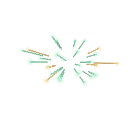
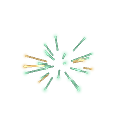
Restore fleet actions and keep phone navigation clear of HUD panels

Changed region(s): [[0.1562, 0.25, 0.9375, 0.7188], [0.625, 0.5938, 0.6875, 0.6562]]

diff --git a/frontend/components/space/SystemObjectIndex.tsx b/frontend/components/space/SystemObjectIndex.tsx
@@ -41,13 +41,15 @@ function ObjectThumbnail({ object, className }: { object: IndexedObject; classNa
 }
 
 /** Shared object browser. Opening details never issues a command. */
-export function SystemObjectIndex({ objects, selected, open, onOpen, onSelect, onFocus, offscreen, onOffscreen, canPlot = false, onPlot, systemName = 'System', detailContent, inspectorBody, compact = false, detailContentFor, tutorialTarget, plotHint, loading = false, failed = false, onRetry, disabled = false, selectedFleetId, onSelectFleet, onFocusFleet, fleetsLoading = false, fleetsFailed = false, onRetryFleets }: {
+export function SystemObjectIndex({ objects, selected, open, onOpen, onSelect, onFocus, offscreen, onOffscreen, canPlot = false, onPlot, systemName = 'System', detailContent, inspectorBody, compact = false, servicesWithoutDetails = false, detailContentFor, tutorialTarget, plotHint, loading = false, failed = false, onRetry, disabled = false, selectedFleetId, onSelectFleet, onFocusFleet, fleetsLoading = false, fleetsFailed = false, onRetryFleets }: {
   selectedFleetId?: string | null
   onSelectFleet?: (fleetId: string) => void
   onFocusFleet?: (fleetId: string) => void
   fleetsLoading?: boolean
   fleetsFailed?: boolean
   onRetryFleets?: () => void
+  /** Independently read station services remain usable when body telemetry fails. */
+  servicesWithoutDetails?: boolean
   compact?: boolean
   inspectorBody?: ReactNode
   detailContent?: ReactNode
@@ -101,7 +103,7 @@ export function SystemObjectIndex({ objects, selected, open, onOpen, onSelect, o
   return <div className={`${styles.indexShell} ${compact ? styles.compact : ''}`}>
     <Button plain ref={toggleRef} data-testid="system-index-toggle" aria-expanded={open} aria-controls="system-index" onClick={() => onOpen(!open)}>⌕ Objects · {available.length} <span>{open ? '−' : '+'}</span></Button>
     {/* Keep embedded command state mounted while its drawer is closed. */}
-    {(open || detailContent || inspectorBody) && <div style={!open ? { display: 'none' } : undefined} className={styles.indexPanels} data-details={!!detailObject} onKeyDown={event => {
+    {(open || detailContent || inspectorBody) && <div style={!open ? { display: 'none' } : undefined} className={styles.indexPanels} data-details={!!detailObject || servicesWithoutDetails} onKeyDown={event => {
       if (event.key !== 'Escape') return
       event.stopPropagation()
       if (details) closeDetails()
@@ -127,8 +129,9 @@ export function SystemObjectIndex({ objects, selected, open, onOpen, onSelect, o
         {!loading && !failed && !fleetsLoading && !fleetsFailed && matches.length === 0 && <p role="status">{available.length ? 'No known objects match. Try a name or type.' : 'No objects have been disclosed in this system.'}</p>}
         <small className={styles.muted}>Select an object to open or close its details.</small>
       </aside>
-      {(detailObject || detailContent || inspectorBody) && <aside style={!detailObject && !inspectorBody ? { display: 'none' } : inspectorBody ? { padding: 0, border: 0, background: 'transparent', overflow: 'visible' } : undefined} id="object-details" className={styles.objectDetails} aria-label={detailObject ? `Details for ${detailObject.label ?? detailObject.name}` : undefined}>
+      {(detailObject || detailContent || inspectorBody) && <aside style={!detailObject && !inspectorBody && !servicesWithoutDetails ? { display: 'none' } : inspectorBody ? { padding: 0, border: 0, background: 'transparent', overflow: 'visible' } : undefined} id="object-details" className={styles.objectDetails} aria-label={detailObject ? `Details for ${detailObject.label ?? detailObject.name}` : servicesWithoutDetails ? 'Docked station services' : undefined}>
         {inspectorBody}
+        {servicesWithoutDetails && !detailObject && <header className={styles.detailsHeader}><div><p>Docked station services</p><p className={styles.muted}>System objects are unavailable. Your station services are still connected.</p><Button plain onClick={onRetry}>Retry system objects</Button></div></header>}
         <div hidden={!!inspectorBody} style={{ display: inspectorBody ? 'none' : 'contents' }}>
         {detailObject && <header className={styles.detailsHeader}><p className={styles.eyebrow}>SELECTED {fleetFacts ? 'FLEET' : detailObject.group === 'Stations' ? 'STATION' : detailObject.group === 'Worlds' ? 'WORLD' : 'OBJECT'}</p><Button autoFocus plain className={styles.detailsClose} data-testid="details-back" aria-label="Close details and return to objects" title="Back to objects" onClick={closeDetails}>←</Button></header>}
         <div className={styles.detailsBody}>{detailObject && <><div className={styles.inspectorTitle}><>{!fleetFacts && !selectedPlanet && detailObject.kind !== 'station' && detailObject.kind !== 'star' && <ObjectThumbnail object={detailObject} className={styles.portrait} />}</><div><h3>{detailObject.label ?? detailObject.name}</h3>{detailObject.catalogueRef && <p>{detailObject.catalogueRef}</p>}<p className={styles.muted}>{detailObject.kind}</p></div></div>
@@ -137,7 +140,7 @@ export function SystemObjectIndex({ objects, selected, open, onOpen, onSelect, o
         {open && !fleetFacts && detailObject.kind === 'star' && <SpacecraftPreview key={`star:${detailObject.name}:${detailObject.starClass ?? ''}`} kind="star" objectId={detailObject.name} starClass={detailObject.starClass} label={detailObject.label ?? detailObject.name} accentColor={0xffffff} />}
         {open && selectedPlanet && <SpacecraftPreview key={`${selectedPlanet}:${detailObject.name}`} kind={selectedPlanet} objectId={detailObject.name} label={detailObject.label ?? detailObject.name} accentColor={0xffffff} />}
         {fleetFacts ? <dl className={styles.objectFacts}><dt>Activity</dt><dd>{fleetFacts.activity}</dd><dt>System</dt><dd>{fleetFacts.systemLabel}</dd>{fleetFacts.attachedTo && <><dt>Attached host</dt><dd>{fleetFacts.attachedTo}</dd></>}<dt>Ships</dt><dd>{fleetFacts.shipCount ?? 'Unavailable'}</dd></dl> : <dl className={styles.objectFacts}><dt>Known from</dt><dd>{detailObject.knownFrom ?? 'Astronomical observation'}</dd><dt>Resources</dt><dd>{detailObject.resources ?? 'Not surveyed — inspect or scan this host.'}</dd><dt>Fleets here</dt><dd>{detailObject.fleets?.length ? detailObject.fleets.join(', ') : 'No known fleets'}</dd>{detailObject.group === 'Stations' && <><dt>Services</dt><dd>Sell cargo · Purchase fuel while docked</dd></>}</dl>}</>}
-          <div className={styles.detailServices} style={fleetFacts || detailObject?.name !== detailContentFor ? { display: 'none' } : undefined}>{detailContent}</div>
+          <div className={styles.detailServices} style={fleetFacts || !servicesWithoutDetails && detailObject?.name !== detailContentFor ? { display: 'none' } : undefined}>{detailContent}</div>
         </div>
         {detailObject && <div className={styles.indexActions}>
           <Button plain data-testid="index-focus" disabled={disabled} onClick={() => { if (fleetFacts) onFocusFleet?.(fleetFacts.id); else onFocus() }}>Focus {detailObject.label ?? detailObject.name} ⌖</Button>

diff --git a/frontend/components/space/SystemSpaceView.tsx b/frontend/components/space/SystemSpaceView.tsx
@@ -54,7 +54,7 @@ import { useCommandGuide } from '@/hooks/use-command-guide'
 import { SystemObjectIndex } from './SystemObjectIndex'
 import { RecoveryTransmission } from './RecoveryTransmission'
 import commandStyles from './command-view.module.css'
-import { useMyFleets, useOrder, useStop, useJump } from '@/hooks/use-fleets'
+import { useMyFleets, useOrder, useStop, useJump, useCutDrive } from '@/hooks/use-fleets'
 import { useSubmitGuard } from '@/hooks/use-submit-guard'
 import { BURN_FUEL_ALLOWANCE } from '@/lib/space-quote'
 import { burnErrorCopy, commandErrorReason, isQuotedCapExceeded } from '@/lib/rejection-copy'
@@ -293,9 +293,11 @@ export function SystemSpaceView({ systemId }: SystemSpaceViewProps) {
   const travelOrder = useOrder()
   const travelStop = useStop()
   const travelJump = useJump()
+  const travelCutDrive = useCutDrive()
   const jumpGuard = useSubmitGuard()
   const travelGuard = useSubmitGuard()
   const stopGuard = useSubmitGuard()
+  const cutDriveGuard = useSubmitGuard()
   const [travelMode, setTravelMode] = useState<'review' | 'status' | null>(null)
   const [travelNotice, setTravelNotice] = useState<string | null>(null)
   const [travelError, setTravelError] = useState<string | null>(null)
@@ -959,6 +961,18 @@ export function SystemSpaceView({ systemId }: SystemSpaceViewProps) {
       onSettled: () => { stopGuard.release(); setTravelPending(false) },
     })
   }
+  const cutTravelDrive = () => {
+    if (!statusFleet || statusFleet.state.Mode !== 0 || statusFleet.jump || statusFleet.systemId !== systemId || mineRunning || fleets.isError || travelPending || !cutDriveGuard.claim()) return
+    setTravelError(null); setTravelPending(true)
+    travelCutDrive.mutate(statusFleet.id, {
+      onSuccess: fleet => {
+        setTravelReceipt({ fleet, destination: 'Coasting', readCount: qc.getQueryState(queryKeys.fleets.mine())?.dataUpdateCount })
+        setTravelNotice('Drive cut. The fleet is coasting.')
+      },
+      onError: error => setTravelError(burnErrorCopy(commandErrorReason(error))),
+      onSettled: () => { cutDriveGuard.release(); setTravelPending(false) },
+    })
+  }
   const jumpTravel = () => {
     if (!statusFleet?.laneId || statusFleet.jump || statusFleet.systemId !== systemId || mineRunning || fleets.isError || travelPending || !jumpGuard.claim()) return
     setTravelError(null); setTravelPending(true)
@@ -977,7 +991,10 @@ export function SystemSpaceView({ systemId }: SystemSpaceViewProps) {
     fleets={allFleets} systemId={systemId} destination={travelMode === 'status' ? statusDestination : destinationLabel}
     quote={currentQuote} worldTime={worldTime} scale={servedScale} blocker={travelBlocker} notice={travelNotice} error={fleets.isError ? 'Fleet telemetry unavailable.' : travelError}
     pending={travelPending} warning={travelReceipt?.fleet.strandingWarning}
-    additionalActions={statusFleet?.laneId && !statusFleet.jump && statusFleet.systemId === systemId ? <Button outline data-testid="travel-jump" disabled={travelPending || mineRunning || fleets.isError} onClick={jumpTravel}>Jump through gate</Button> : undefined}
+    additionalActions={<>
+      {statusFleet?.state.Mode === 0 && statusFleet.state.Burn && statusFleet.state.Burn.ArriveMs > worldTime && !statusFleet.jump && statusFleet.systemId === systemId && <Button outline data-testid="travel-cut-drive" disabled={travelPending || mineRunning || fleets.isError} onClick={cutTravelDrive}>Cut drive</Button>}
+      {statusFleet?.laneId && !statusFleet.jump && statusFleet.systemId === systemId && <Button outline data-testid="travel-jump" disabled={travelPending || mineRunning || fleets.isError} onClick={jumpTravel}>Jump through gate</Button>}
+    </>}
     onFleet={id => { if (!travelGuard.held) { setActingFleetId(id); setTravelError(null) } }} onStart={startTravel} onStop={stopTravel}
     onBack={() => { if (!travelGuard.held) { setTravelMode(null); openObjectIndex(true) } }}
     onClose={() => { if (!travelGuard.held) setTravelMode(null) }} onRetry={burnPreview.retry} /> : null
@@ -1223,6 +1240,7 @@ export function SystemSpaceView({ systemId }: SystemSpaceViewProps) {
       <div className={commandStyles.objectBrowser} data-testid="live-object-browser" data-attention={discovering && !discoveryStarted && !objectIndexOpen && !interiorFailed} style={{ position: 'relative', inset: 'auto', width: '100%', height: '100%', ...(guiding && guide?.phase === 'wake' ? { display: 'none' } : {}) }}>
         <SystemObjectIndex
           compact
+          servicesWithoutDetails={interiorFailed && !!stationActionsHost}
           key={systemId}
           systemName={systemNames[systemId] ?? systemId}
           objects={[
@@ -1237,7 +1255,7 @@ export function SystemSpaceView({ systemId }: SystemSpaceViewProps) {
             } })),
           ]}
           inspectorBody={travelMode === 'review' && objectIndexOpen && !!selection?.bodyId ? travelCard : undefined}
-          detailContent={stationActionsHost || (objectIndexOpen && selection?.bodyId) ? <>{stationActionsHost && <div style={stationActionsHost !== selection?.bodyId ? { display: "none" } : undefined}>{marketNotices}{fleetActions}</div>}{objectIndexOpen && interior.data?.features.filter(body => body.id === selection?.bodyId).map(body => <CelestialActions key={`${systemId}:${body.id}`} systemId={systemId} body={body} fleetId={acting && !actingRemote ? acting.id : null} onSettled={() => { void interior.refetch(); void fleets.refetch() }} />)}</> : undefined}
+          detailContent={stationActionsHost || (objectIndexOpen && selection?.bodyId) ? <>{stationActionsHost && <div style={stationActionsHost !== selection?.bodyId && !interiorFailed ? { display: "none" } : undefined}>{marketNotices}{fleetActions}</div>}{!interiorFailed && objectIndexOpen && interior.data?.features.filter(body => body.id === selection?.bodyId).map(body => <CelestialActions key={`${systemId}:${body.id}`} systemId={systemId} body={body} fleetId={acting && !actingRemote ? acting.id : null} onSettled={() => { void interior.refetch(); void fleets.refetch() }} />)}</> : undefined}
           detailContentFor={selection?.bodyId ?? stationActionsHost ?? undefined}
           selected={selection?.bodyId ?? null}
           selectedFleetId={inspectedFleetId}

diff --git a/frontend/components/space/SystemSpaceView.test.tsx b/frontend/components/space/SystemSpaceView.test.tsx
@@ -1500,3 +1500,46 @@ describe('compact command fleet gate travel', () => {
     expect(mutations.jump.mutate).not.toHaveBeenCalled()
   })
 })
+
+
+describe('reachable non-map HUD actions', () => {
+  it('keeps docked trading and holding usable when the interior and renderer are unavailable', async () => {
+    stage.available = false
+    setReads({ data: undefined, isError: true, error: new Error('interior unavailable') }, { data: [dockedFleet({ attachedTo: STATION.featureId })] })
+    view()
+    await userEvent.click(screen.getByTestId('system-index-toggle'))
+    expect(screen.getByTestId('sell-section')).toBeVisible()
+    expect(screen.getByTestId('refuel-section')).toBeVisible()
+    expect(screen.getByTestId('stationkeep-control')).toBeVisible()
+    expect(screen.queryByTestId('celestial-actions')).not.toBeInTheDocument()
+    fireEvent.change(screen.getByTestId('refuel-tons-input'), { target: { value: '3' } })
+    await userEvent.click(screen.getByTestId('refuel-button'))
+    expect(mutations.refuel.mutate).toHaveBeenCalledTimes(1)
+    await userEvent.click(screen.getByTestId('stationkeep-control'))
+    expect(mutations.hold.mutate).toHaveBeenCalledTimes(1)
+    await userEvent.click(screen.getByTestId('system-index-toggle'))
+    expect(screen.getByTestId('refuel-section')).not.toBeVisible()
+    await userEvent.click(screen.getByTestId('system-index-toggle'))
+    expect(screen.getByTestId('refuel-tons-input')).toHaveValue(3)
+  })
+
+  it('offers the existing Cut drive verb in visible fleet status without needing the renderer', async () => {
+    stage.available = false
+    setReads({}, { data: [burningFleet()] })
+    view()
+    await userEvent.click(screen.getByTestId('travel-status-entry'))
+    const cut = screen.getByTestId('travel-cut-drive')
+    expect(cut).toBeVisible()
+    expect(cut).toBeEnabled()
+    act(() => { fireEvent.click(cut); fireEvent.click(cut) })
+    expect(mutations.cutDrive.mutate).toHaveBeenCalledTimes(1)
+    expect(mutations.cutDrive.mutate.mock.calls[0][0]).toBe('fleet_1')
+    expect(mutations.stop.mutate).not.toHaveBeenCalled()
+  })
+
+  it('does not offer Cut drive for a quiet parked fleet', async () => {
+    view()
+    await userEvent.click(screen.getByTestId('travel-status-entry'))
+    expect(screen.queryByTestId('travel-cut-drive')).not.toBeInTheDocument()
+  })
+})

diff --git a/frontend/components/floating-nav.tsx b/frontend/components/floating-nav.tsx
@@ -19,16 +19,19 @@ import { usePathname } from 'next/navigation'
 import { Button } from '@/components/catalyst/button'
 import { useAccountContext } from '@/components/account-provider'
 import { CONSOLE_DOCK_LANE_LEFT_CENTER } from '@/lib/console-dock-layout'
+import { useState } from 'react'
+import styles from './floating-nav.module.css'
 
 export function FloatingNav() {
   const pathname = usePathname()
   const { user, account, signOut } = useAccountContext()
+  const [accountOpen, setAccountOpen] = useState(false)
   if (!user) return null
 
   const onGalaxy = pathname === '/'
 
   return (
-    <HudPanel as="div" tone="navigation" className={`fixed ${CONSOLE_DOCK_LANE_LEFT_CENTER} left-4 z-50 flex flex-col gap-1.5 p-3`} data-testid="floating-nav">
+    <HudPanel as="div" tone="navigation" className={`fixed ${CONSOLE_DOCK_LANE_LEFT_CENTER} left-4 z-50 flex flex-col gap-1.5 p-3 ${styles.navigation}`} data-testid="floating-nav">
       <Link
         href="/"
         data-testid="nav-home"
@@ -37,7 +40,8 @@ export function FloatingNav() {
       >
         ◄ Galaxy
       </Link>
-      <div className="mt-1 flex items-center gap-3 border-t border-zinc-200 pt-2 dark:border-zinc-800/50">
+      <Button plain className={styles.accountToggle} aria-expanded={accountOpen} onClick={() => setAccountOpen(open => !open)}>Account</Button>
+      <div data-open={accountOpen} className={`mt-1 flex items-center gap-3 border-t border-zinc-200 pt-2 dark:border-zinc-800/50 ${styles.account}`}>
         <span className="max-w-[12rem] truncate text-xs text-zinc-300">
           {account?.email ?? user.email}
         </span>

diff --git a/frontend/components/space/command-view.module.css b/frontend/components/space/command-view.module.css
@@ -128,3 +128,14 @@
 .workspaceVitals { position: absolute; z-index: 35; bottom: 0; inset-inline: 0; pointer-events: auto; }
 .workspace .systemColumn { gap: 12px; }
 @media (max-width: 760px) { .workspace { bottom: 72px; } }
+
+@media (max-width: 760px) {
+  .workspace { bottom: 204px; }
+  .workspaceVitals [data-testid='vitals-strip'] { display: grid; grid-template-columns: minmax(0, 1fr) minmax(0, 1fr); height: 144px; gap: 4px 12px; padding: 4px 12px; }
+  .workspaceVitals [data-testid='vitals-fleet-cell'] { grid-column: 1 / -1; min-width: 0; }
+  .workspaceVitals [data-testid='vitals-fleet-id'] { max-width: 150px; overflow: hidden; text-overflow: ellipsis; white-space: nowrap; }
+  .workspaceVitals [data-testid='vitals-fleet-chevron'] { min-width: 44px; min-height: 44px; flex-shrink: 0; }
+  .workspaceVitals [data-testid='vitals-hold-cell'] { max-height: 44px; overflow: auto; }
+  .workspaceVitals [data-testid='vitals-credits-cell'] { align-items: start; }
+  .workspaceVitals [data-testid='vitals-clock-cell'] { text-align: right; }
+}

diff --git a/frontend/components/space/webgl/feature-art.ts b/frontend/components/space/webgl/feature-art.ts
@@ -224,10 +224,7 @@ export function createFeatureModel(kind: FeatureArtKind, objectId: string): THRE
       const offset = new THREE.Vector3(0.08, 0, -0.05)
       const points = [direction.clone().multiplyScalar(start).add(offset), direction.clone().multiplyScalar(end).add(offset)]
       // A restrained darker carrier retains the ray structure on light surfaces.
-      const carrier = new THREE.Line(new THREE.BufferGeometry().setFromPoints(points), new THREE.LineBasicMaterial({
-        color: i % 4 ? 0x376b57 : 0x917447, transparent: true, opacity: 0.65, depthWrite: false,
-      }))
-      assembly.add(carrier)
+      trace(assembly, points, i % 4 ? 0x376b57 : 0x917447, 0.95, 0.014)
       trace(assembly, points, i % 4 ? 0xa1e5bd : 0xe4c580, 0.65, i % 3 === 0 ? 0.009 : 0)
       glow(assembly, i % 4 ? 0xadecc9 : 0xf0d69d, 0.09 + random() * 0.08, 0.9, direction.multiplyScalar(end).add(offset))
     }

diff --git a/frontend/components/floating-nav.module.css b/frontend/components/floating-nav.module.css
@@ -1,0 +1,8 @@
+.accountToggle { display: none; }
+@media (max-width: 760px) {
+  .navigation { bottom: 144px; left: 12px; right: 12px; height: 48px; padding: 2px 8px; flex-direction: row; justify-content: space-between; align-items: center; }
+  .navigation > a, .navigation .accountToggle { display: inline-flex; align-items: center; min-height: 44px; }
+  .account { display: none; position: absolute; bottom: 100%; right: 0; padding: 12px; background: #08121df5; border: 1px solid #435d70; }
+  .account[data-open='true'] { display: flex; }
+  .account button { min-height: 44px; }
+}
